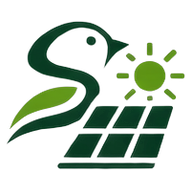
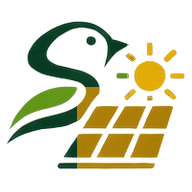
0.9.2: Bereichsfarben überall (PV gelb, WP blau, Vorwerk grün)
Claude-Session: https://claude.ai/code/session_01GxNyqFEuTP1RZNi5yfYKFz

Changed region(s): [[0.375, 0.2188, 0.9688, 0.9062], [0.6562, 0.2188, 0.6875, 0.25]]

diff --git a/src/ui/views/gespraechsmodus.ts b/src/ui/views/gespraechsmodus.ts
@@ -70,7 +70,7 @@ export function render(el: HTMLElement, params: URLSearchParams, [id = '']: stri
           <a class="btn klein ghost" href="#/kunde/${esc(id)}?tab=verlauf">Ganzer Verlauf</a>` : '<p class="hinweis">Erstes Gespräch mit diesem Kunden.</p>'}
       </div>
       ${SPARTEN_KEYS.map((s) => `
-      <details class="karte-box gm-bogen" ${e.sparten.includes(s) ? 'open' : ''}>
+      <details class="karte-box gm-bogen bereich-rand bereich-${s}" ${e.sparten.includes(s) ? 'open' : ''}>
         <summary>${maskottchen(spartenIcon(s), 'mini')} ${esc(SPARTEN[s].label)} <small>${esc(STATUS[k.status[s]].label)}</small></summary>
         <label class="status-zeile">Status <select data-feld="status.${s}">${statusOptions(k.status[s])}</select></label>
         <div class="formgrid">${FELDER[s].map((f) => feldHtml(s, f, k[s][f.key])).join('')}</div>
@@ -150,7 +150,7 @@ export function render(el: HTMLElement, params: URLSearchParams, [id = '']: stri
         <h2>Gespräch abschließen</h2>
         <p class="hinweis">${esc(KONTAKTART[e.kontaktart])}${e.erreicht ? '' : ' · nicht erreicht'} · ${sparten.length ? sparten.map((s) => esc(SPARTEN[s].label)).join(', ') : 'ohne Thema'}${ablauf.hatInhalt(e) ? '' : ' · noch keine Notizen'}</p>
         ${sparten.map((s) => `
-        <fieldset class="abschluss-sparte" data-abschluss="${s}">
+        <fieldset class="abschluss-sparte bereich-rand bereich-${s}" data-abschluss="${s}">
           <legend>${maskottchen(spartenIcon(s), 'mini')} ${esc(SPARTEN[s].label)}${ablauf.hatEinwaende(e.verlauf, s) ? ` <small>${Object.keys(e.verlauf[s]).length} Einwand/Einwände</small>` : ''}</legend>
           <div class="formgrid">
             <label>Ergebnis<select name="ausgang"><option value="">${e.erreicht ? '– bitte wählen –' : '– keins –'}</option>${Object.entries(AUSGANG).map(([key, v]) => `<option value="${key}">${esc(v)}</option>`).join('')}</select></label>

diff --git a/src/css/app.css b/src/css/app.css
@@ -709,3 +709,19 @@ body.hilfe-aus .hilfe-knopf { display: none; }
 .kontaktseite-url code { word-break: break-all; background: var(--flaeche-2); padding: .2rem .45rem; border-radius: 6px; font-size: .85rem; }
 .qr-gross { display: flex; justify-content: center; }
 .qr-gross canvas { width: min(320px, 72vw); height: auto; border-radius: 12px; background: #fff; }
+
+/* ---------- Bereichsfarben überall: PV gelb, WP blau, Vorwerk grün ---------- */
+.bereich-pv { --a: var(--pv); --a-bg: var(--tag-pv-bg); --a-text: var(--tag-pv); }
+.bereich-wp { --a: var(--wp); --a-bg: var(--tag-wp-bg); --a-text: var(--tag-wp); }
+.bereich-vorwerk { --a: var(--vw); --a-bg: var(--tag-vw-bg); --a-text: var(--tag-vw); }
+.bereich-rand { border-left: 5px solid var(--a); }
+.sparte-karte.bereich-pv, .sparte-karte.bereich-wp, .sparte-karte.bereich-vorwerk { border-color: var(--a); background: var(--a-bg); }
+.sparte-karte select { border-color: var(--c); }
+.chip.bereich-chip-pv { background: var(--tag-pv-bg); color: var(--tag-pv); border-color: var(--pv); }
+.chip.bereich-chip-wp { background: var(--tag-wp-bg); color: var(--tag-wp); border-color: var(--wp); }
+.chip.bereich-chip-vorwerk { background: var(--tag-vw-bg); color: var(--tag-vw); border-color: var(--vw); }
+.tag-pv { border: 1px solid var(--pv); } .tag-wp { border: 1px solid var(--wp); } .tag-vorwerk { border: 1px solid var(--vw); }
+#gTabs [data-sparte="pv"].aktiv { background: var(--tag-pv-bg); color: var(--tag-pv); border-color: var(--pv); }
+#gTabs [data-sparte="wp"].aktiv { background: var(--tag-wp-bg); color: var(--tag-wp); border-color: var(--wp); }
+#gTabs [data-sparte="vorwerk"].aktiv { background: var(--tag-vw-bg); color: var(--tag-vw); border-color: var(--vw); }
+#gTabs [data-sparte="pv"] { border-color: var(--pv); } #gTabs [data-sparte="wp"] { border-color: var(--wp); } #gTabs [data-sparte="vorwerk"] { border-color: var(--vw); }

diff --git a/src/ui/views/kunde.ts b/src/ui/views/kunde.ts
@@ -200,7 +200,7 @@ function uebersicht(el, k, kopf) {
       <h2>Interesse je Sparte</h2>
       <div class="sparten-status">
         ${SPARTEN_KEYS.map((s) => `
-          <label class="sparte-karte" style="--c:${STATUS[k.status[s]].farbe}">
+          <label class="sparte-karte bereich-${s}" style="--c:${STATUS[k.status[s]].farbe}">
             ${maskottchen(spartenIcon(s), 'sparte-bild')}
             <span>${esc(SPARTEN[s].label)}</span>
             <select data-feld="status.${s}" data-status>${statusOptions(k.status[s])}</select>
@@ -395,7 +395,7 @@ function notizHtml(n) {
 
 function bogen(el, k, sparten, kopf) {
   el.innerHTML = sparten.map((s) => `
-    <section class="karte-box">
+    <section class="karte-box bereich-rand bereich-${s}">
       <h2>${maskottchen(spartenIcon(s), 'titel-bild')} ${esc(SPARTEN[s].label)}</h2>
       <label class="status-zeile">Status <select data-feld="status.${s}">${statusOptions(k.status[s])}</select></label>
       <div class="formgrid">${FELDER[s].map((f) => feldHtml(s, f, k[s][f.key])).join('')}</div>

diff --git a/src/neuigkeiten.ts b/src/neuigkeiten.ts
@@ -1,6 +1,7 @@
 // Sperling – „Was ist neu“: kurze, verständliche Liste je Version (neueste zuerst).
 // Bei jeder Version mit sichtbaren Änderungen hier einen Eintrag ergänzen (siehe REGELN R-VERSION).
 export const NEUIGKEITEN = [
+  { version: '0.9.2', punkte: ['Bereichsfarben überall: Photovoltaik gelb, Wärmepumpe blau, Vorwerk grün – in Chips, Karten, Reitern und Symbolen.'] },
   {
     version: '0.9.1',
     punkte: ['Meine Kontaktseite (Konzept): öffentliche Seite für Photovoltaik und Wärmepumpe mit Anrufen, WhatsApp, E-Mail, Kontakt speichern und Rückrufwunsch – in den Einstellungen öffnen, teilen oder als QR-Code zeigen.'],

diff --git a/src/ui/parts.ts b/src/ui/parts.ts
@@ -10,7 +10,7 @@ import { dialog, download, toast, maskottchen } from './dom.ts';
 export function statusChips(kunde) {
   return `<span class="chips">${SPARTEN_KEYS.map((s) => {
     const st = kunde.status[s];
-    return `<span class="chip" style="--c:${STATUS[st].farbe}" title="${esc(SPARTEN[s].label)}: ${esc(STATUS[st].label)}">${esc(SPARTEN[s].kurz)}<i></i></span>`;
+    return `<span class="chip bereich-chip-${s}" style="--c:${STATUS[st].farbe}" title="${esc(SPARTEN[s].label)}: ${esc(STATUS[st].label)}">${esc(SPARTEN[s].kurz)}<i></i></span>`;
   }).join('')}</span>`;
 }
 

diff --git a/scripts/branding.py b/scripts/branding.py
@@ -49,6 +49,31 @@ def hell(img: Image.Image) -> Image.Image:
     return Image.fromarray(a.astype(np.uint8), 'RGBA')
 
 
+# Bereichsfarben für das Produktsymbol der Bereichs-Icons: (hell: Fläche, Linie), (dunkles Schema: Fläche, Linie)
+BEREICHSFARBE = {
+    'photovoltaik': (((224, 168, 0), (168, 122, 0)), ((255, 210, 74), (255, 226, 140))),
+    'waermepumpe': (((47, 127, 214), (29, 79, 140)), ((106, 174, 255), (169, 205, 255))),
+}
+# Bereich des Produktsymbols (Anteile von Breite/Höhe); der Vogel links oben bleibt grün
+PRODUKT = {'photovoltaik': [(0.40, 0.45), (0.66, 0.0)], 'waermepumpe': [(0.45, 0.42)]}
+
+
+def einfaerben(img: Image.Image, name: str, farben) -> Image.Image:
+    """Produktsymbol in der Bereichsfarbe: helle Teile als Fläche, dunkle als Linie."""
+    a = np.array(img).astype(np.float32)
+    h, w = a.shape[:2]
+    yy, xx = np.mgrid[0:h, 0:w]
+    bereich = np.zeros((h, w), bool)
+    for fx, fy in PRODUKT[name]:
+        bereich |= (xx >= w * fx) & (yy >= h * fy)
+    bereich &= a[:, :, 3] > 0
+    lum = a[:, :, :3].mean(axis=2)
+    flaeche, linie = farben
+    a[bereich & (lum >= 70), :3] = flaeche
+    a[bereich & (lum < 70), :3] = linie
+    return Image.fromarray(a.astype(np.uint8), 'RGBA')
+
+
 def zuschneiden(im: Image.Image, box) -> Image.Image:
     teil = im.crop(box)
     bb = teil.getchannel('A').point(lambda v: 255 if v > 20 else 0).getbbox()
@@ -76,8 +101,12 @@ def main():
 
     for name, x0, x1 in ICONS:
         ic = quadrat(zuschneiden(im, (x0, ICON_Y[0], x1, ICON_Y[1])), 192)
+        h = hell(ic)
+        if name in BEREICHSFARBE:
+            h = einfaerben(h, name, BEREICHSFARBE[name][1])
+            ic = einfaerben(ic, name, BEREICHSFARBE[name][0])
         ic.save(MARKE / f'{name}.png', optimize=True)
-        hell(ic).save(MARKE / f'{name}-hell.png', optimize=True)
+        h.save(MARKE / f'{name}-hell.png', optimize=True)
     print('fertig:', sorted(p.name for p in MARKE.iterdir()))
 
 

diff --git a/docs/STAND.md b/docs/STAND.md
@@ -2,7 +2,7 @@
 
 > Diese Datei ist die erste Anlaufstelle. Sie wird bei **jeder** Änderung aktualisiert (siehe REGELN.md, R-DOKU).
 
-**Letzte Aktualisierung:** 07.11.2026 · **Version:** 0.9.1
+**Letzte Aktualisierung:** 07.11.2026 · **Version:** 0.9.2
 
 ## Echte App vs. Demo – was zum Produktivbetrieb fehlt
 
@@ -16,6 +16,9 @@ Was nur der Auftraggeber/Nutzer erledigen kann:
 Was in der Demo eingeschränkt ist, in der echten App aber funktioniert: Kartenbilder (Satellit/Straße), Adresssuche, Anrufen, Mailprogramm öffnen, Speichern.
 
 ## Erledigt (Version 0.9.1)
+
+### Neu in 0.9.2
+- [x] Bereichsfarben (PV gelb, WP blau, Vorwerk grün) in Chips, Karten, Bögen, Gesprächsmodus, Leitfaden und Icons (`scripts/branding.py` färbt das Produktsymbol ein).
 
 ### Neu in 0.9.1
 - [x] **Kontaktseite (Konzept)** `public/kontakt/` (eigenständig, kein App-Code, `noindex`), in der App `src/ui/kontaktseite.ts` (Einstellungen: öffnen, teilen, QR-Code mit `public/vendor/qrcode/`).

diff --git a/docs/MASKOTTCHEN.md b/docs/MASKOTTCHEN.md
@@ -28,7 +28,7 @@ iOS/Android runden selbst ab) und `icon-maskable-512.png` (mit Sicherheitsrand f
 
 **Farben** (Tokens in `src/css/app.css`): Akzent Dunkelgrün `#0b4a2a` (dunkles Schema: Hellgrün `#a5d36a`),
 Hellgrün `#6a9e2a`. Bereichsfarben: Photovoltaik gelb (`--pv`), Wärmepumpe blau (`--wp`), Vorwerk grün (`--vw`),
-je in Hell und Dunkel. Statusfarben (Potenzial, Interesse …) bleiben unabhängig davon.
+je in Hell und Dunkel. Bei Photovoltaik und Wärmepumpe färbt `scripts/branding.py` das Produktsymbol im Icon gelb bzw. blau ein; der Vogel bleibt grün. Statusfarben (Potenzial, Interesse …) bleiben unabhängig davon.
 
 **Austausch:** neues Set unter `docs/bilder/branding-set.png` ablegen; ändern sich Positionen, die Ausschnitte
 oben in `scripts/branding.py` anpassen und das Skript ausführen.

diff --git a/CHANGELOG.md b/CHANGELOG.md
@@ -1,5 +1,8 @@
 # Änderungsverlauf
 
+## 0.9.2 – 07.11.2026
+- **Bereichsfarben überall:** Status-Chips, Interesse-Karten, Erfassungsbögen, Gesprächsmodus, Leitfaden-Reiter und die Produktsymbole der Bereichs-Icons in PV gelb, WP blau, Vorwerk grün (hell und dunkel).
+
 ## 0.9.1 – 07.11.2026
 - Klick auf das Sperling-Logo in der Seitenleiste führt zur Übersicht.
 - **Meine Kontaktseite (Konzept):** eigenständige Seite `kontakt/` für Photovoltaik und Wärmepumpe (ohne Anbieter) mit Anrufen, WhatsApp, E-Mail, vCard und Rückrufwunsch ohne Server. In der App unter Einstellungen: öffnen, Link teilen, QR-Code (offline erzeugt, als Bild speicherbar). Noch mit Platzhalterdaten; Impressum, Datenschutz und eigene Adresse folgen.
